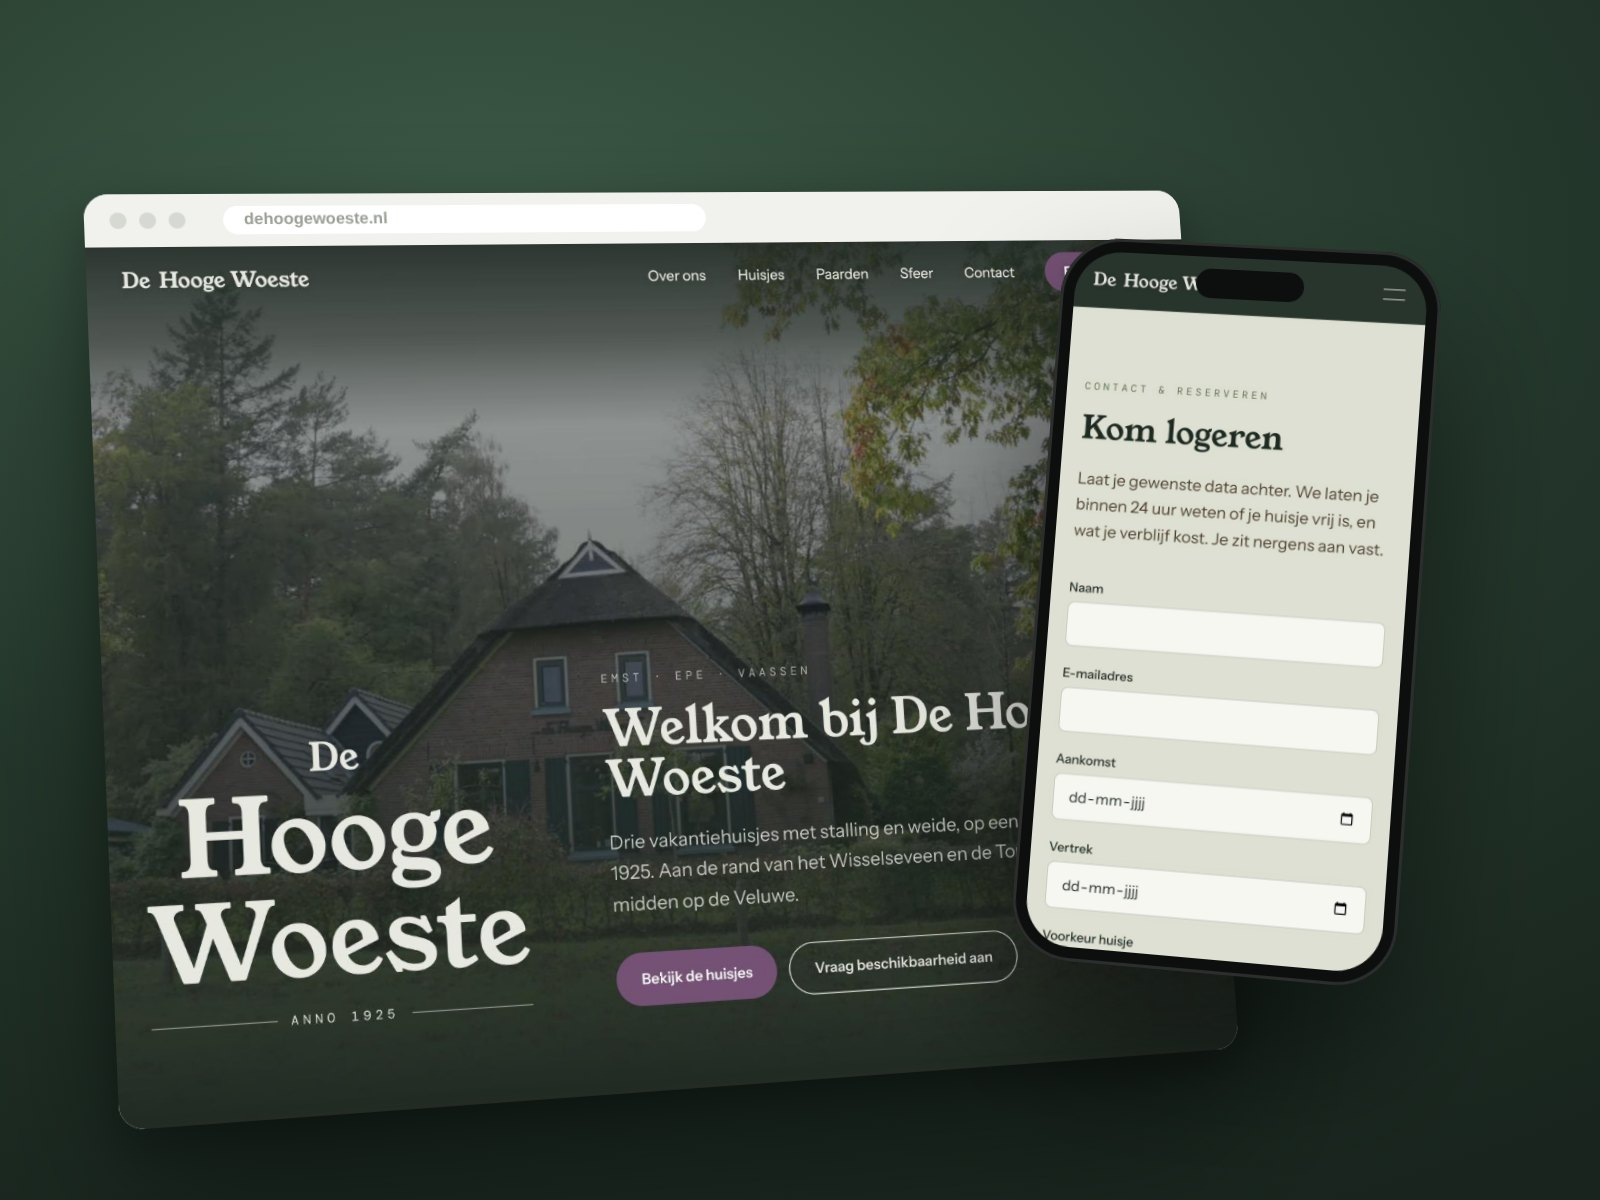
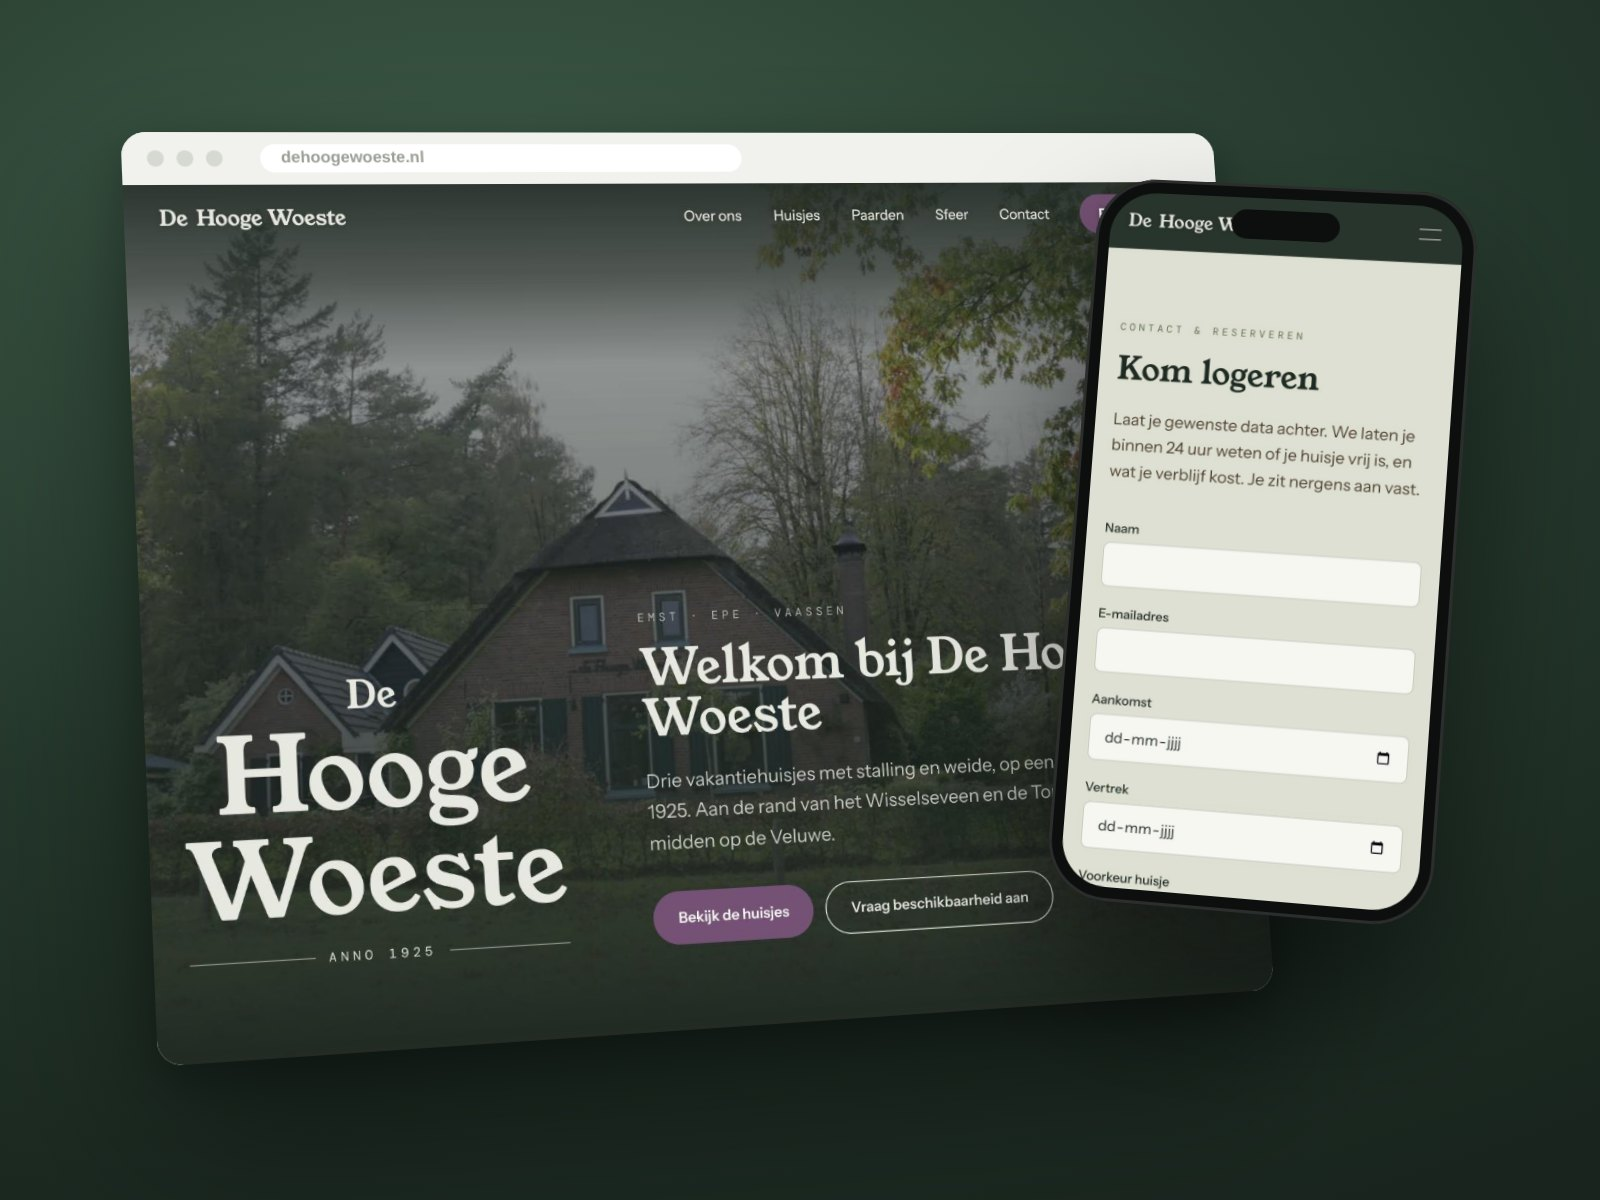
Mockups De Hooge Woeste en Projectreports precies gecentreerd
Claude-Session: https://claude.ai/code/session_017nDyUfiKUM6BVLTJqUZ4gV

diff --git a/werk/index.html b/werk/index.html
@@ -64,9 +64,9 @@
 <section id="cases" class="sec">
 <article id="case-hoogewoeste" class="cs rv">
     <div class="cs-media">
-      <figure class="cs-main"><img src="/assets/img/cases/hoogewoeste-mockup.jpg" alt="De website van De Hooge Woeste op een laptop en een telefoon"></figure>
+      <figure class="cs-main"><img src="/assets/img/cases/hoogewoeste-mockup.jpg?v=2" alt="De website van De Hooge Woeste op een laptop en een telefoon"></figure>
       <div class="cs-thumbs">
-        <button class="on"><img src="/assets/img/cases/hoogewoeste-mockup.jpg" alt=""></button>
+        <button class="on"><img src="/assets/img/cases/hoogewoeste-mockup.jpg?v=2" alt=""></button>
         <button><img src="/assets/img/cases/hoogewoeste-1.jpg?v=2" alt=""></button>
         <button><img src="/assets/img/cases/hoogewoeste-2.jpg?v=2" alt=""></button>
         <button><img src="/assets/img/cases/hoogewoeste-3.jpg?v=2" alt=""></button>
@@ -98,9 +98,9 @@
 
   <article id="case-projectreports" class="cs flip rv">
     <div class="cs-media">
-      <figure class="cs-main"><img src="/assets/img/cases/projectreports-mockup.jpg" alt="Modal en zijpaneel uit het design system van Projectreports, in licht en donker"></figure>
+      <figure class="cs-main"><img src="/assets/img/cases/projectreports-mockup.jpg?v=2" alt="Modal en zijpaneel uit het design system van Projectreports, in licht en donker"></figure>
       <div class="cs-thumbs">
-        <button class="on"><img src="/assets/img/cases/projectreports-mockup.jpg" alt=""></button>
+        <button class="on"><img src="/assets/img/cases/projectreports-mockup.jpg?v=2" alt=""></button>
         <button><img src="/assets/img/cases/projectreports-1.jpg?v=2" alt=""></button>
         <button><img src="/assets/img/cases/projectreports-2.jpg?v=2" alt=""></button>
         <button><img src="/assets/img/cases/projectreports-3.jpg?v=2" alt=""></button>

diff --git a/index.html b/index.html
@@ -142,7 +142,7 @@
   <div class="car rv" role="region" aria-roledescription="carrousel" aria-label="Cases">
     <div class="car-track" tabindex="0">
       <a class="wcard wfeat car-slide" href="/werk#case-hoogewoeste" aria-label="Case 1 van 5: De Hooge Woeste, Emst">
-        <img src="/assets/img/cases/hoogewoeste-mockup.jpg" alt="De website van De Hooge Woeste op een laptop en een telefoon" loading="lazy">
+        <img src="/assets/img/cases/hoogewoeste-mockup.jpg?v=2" alt="De website van De Hooge Woeste op een laptop en een telefoon" loading="lazy">
         <div class="wcard-t">
           <div class="cs-client">Website · De Hooge Woeste, Emst</div>
           <h3>Eigen site, eigen gasten.</h3>
@@ -152,7 +152,7 @@
         </div>
       </a>
       <a class="wcard wfeat car-slide" href="/werk#case-projectreports" aria-label="Case 2 van 5: Projectreports">
-        <img src="/assets/img/cases/projectreports-mockup.jpg" alt="Modal en zijpaneel uit het design system van Projectreports, in licht en donker" loading="lazy">
+        <img src="/assets/img/cases/projectreports-mockup.jpg?v=2" alt="Modal en zijpaneel uit het design system van Projectreports, in licht en donker" loading="lazy">
         <div class="wcard-t">
           <div class="cs-client">Design system · Projectreports</div>
           <h3>Rust in een volle tool.</h3>
